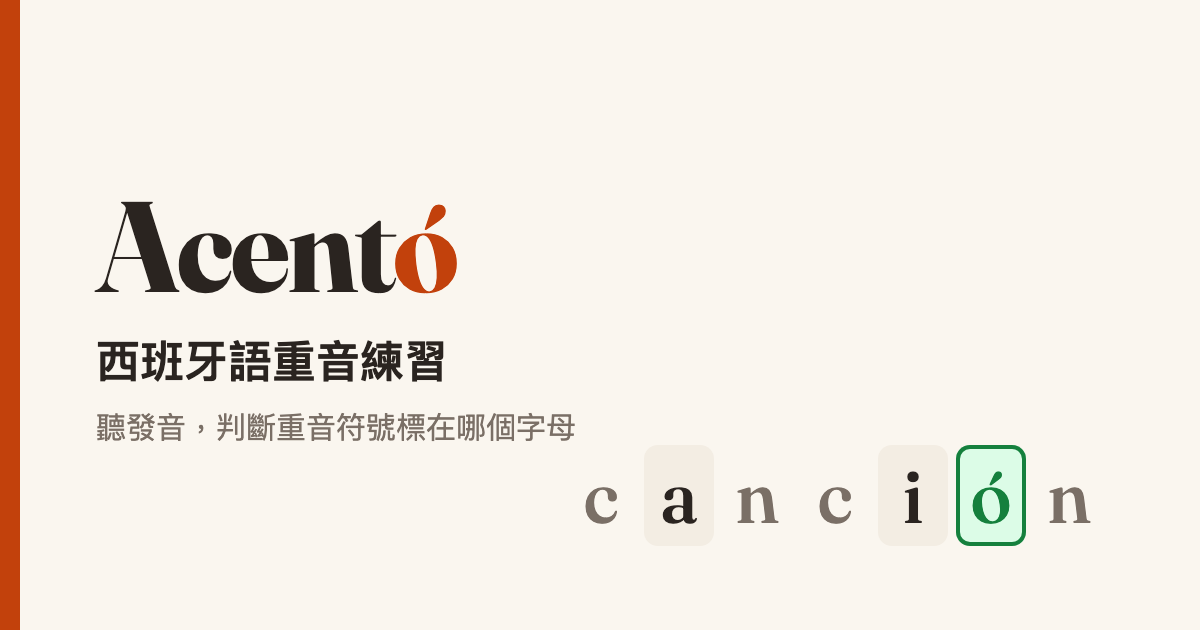
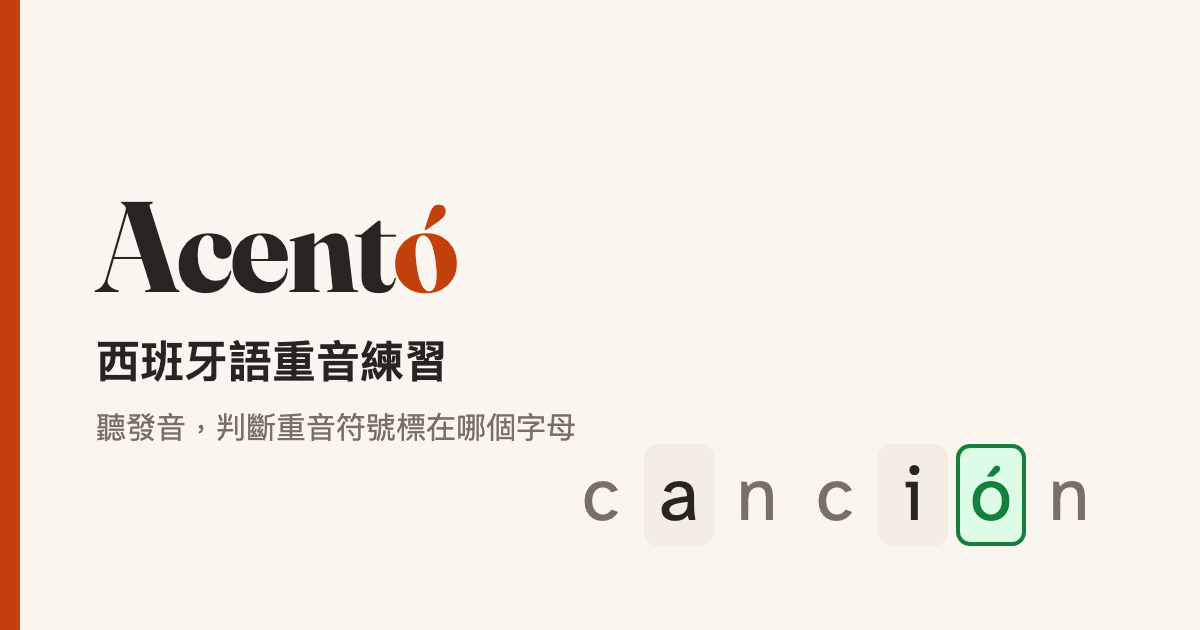
Use Atkinson Hyperlegible for Spanish words
Fraunces made accents small and letters heavy at display sizes. Keep it
only for the brand; quiz letters, answers, compare lists and the OG image
now use Atkinson Hyperlegible for clearer í vs i and accent marks.

diff --git a/css/style.css b/css/style.css
@@ -15,6 +15,7 @@
   --radius: 14px;
   --font: system-ui, -apple-system, "PingFang TC", "Noto Sans TC", "Microsoft JhengHei", sans-serif;
   --display: "Fraunces", Georgia, serif;
+  --word: "Atkinson Hyperlegible", system-ui, sans-serif;
   color-scheme: light;
 }
 
@@ -217,9 +218,9 @@ select {
   justify-content: center;
   flex-wrap: wrap;
   gap: 4px;
-  font-family: var(--display);
+  font-family: var(--word);
   font-size: clamp(2rem, 9vw, 3.2rem);
-  font-weight: 500;
+  font-weight: 400;
   margin-bottom: 16px;
 }
 .letter {
@@ -263,7 +264,7 @@ button.letter:disabled { cursor: default; }
 .verdict.ok { color: var(--ok); }
 .verdict.bad { color: var(--bad); }
 .answer-line { display: flex; align-items: baseline; flex-wrap: wrap; gap: 4px 16px; margin: 6px 0 10px; }
-.answer-word { font-family: var(--display); font-size: 1.8rem; }
+.answer-word { font-family: var(--word); font-size: 1.8rem; }
 .syllables { color: var(--muted); font-size: 1.05rem; }
 .syllables b { color: var(--accent); }
 .yours { font-size: 0.9rem; color: var(--muted); }
@@ -302,7 +303,7 @@ button.letter:disabled { cursor: default; }
 .sound-item::before { content: "▶"; font-size: 0.7rem; color: var(--muted); }
 .sound-item.mark { border-color: var(--ok); }
 .sound-item.playing { background: var(--accent-soft); border-color: var(--accent); }
-.sound-word { font-family: var(--display); font-size: 1.3rem; }
+.sound-word { font-family: var(--word); font-size: 1.3rem; }
 .sound-sub { font-size: 0.85rem; color: var(--muted); }
 .sound-item.mark .sound-sub { color: var(--ok); }
 .compact .sound-items { flex-direction: row; flex-wrap: wrap; }
@@ -322,7 +323,7 @@ button.letter:disabled { cursor: default; }
 .section-title { margin: 24px 0 12px; }
 .group-grid { display: grid; grid-template-columns: repeat(auto-fill, minmax(300px, 1fr)); gap: 0 16px; }
 .group-card .sound-list { margin-top: 0; }
-.group-card .sound-title { font-family: var(--display); font-size: 1.2rem; }
+.group-card .sound-title { font-family: var(--word); font-size: 1.2rem; }
 
 /* Stats */
 .stat-table, .rule-table { width: 100%; border-collapse: collapse; font-size: 0.92rem; }
@@ -336,7 +337,7 @@ button.letter:disabled { cursor: default; }
 .stat-table td.num { text-align: right; white-space: nowrap; font-variant-numeric: tabular-nums; }
 .bar { height: 8px; border-radius: 4px; background: var(--surface-2); overflow: hidden; min-width: 60px; margin-top: 7px; }
 .bar > span { display: block; height: 100%; background: var(--accent); }
-.score-big { font-family: var(--display); font-size: 2.6rem; margin: 0; }
+.score-big { font-family: var(--word); font-size: 2.6rem; margin: 0; }
 .wrong-list { padding-left: 1.2em; }
 .wrong-list li { margin: 4px 0; }
 

diff --git a/index.html b/index.html
@@ -16,7 +16,7 @@
   <meta name="twitter:card" content="summary_large_image">
   <link rel="preconnect" href="https://fonts.googleapis.com">
   <link rel="preconnect" href="https://fonts.gstatic.com" crossorigin>
-  <link href="https://fonts.googleapis.com/css2?family=Fraunces:opsz,wght@9..144,500;9..144,700&display=swap" rel="stylesheet">
+  <link href="https://fonts.googleapis.com/css2?family=Atkinson+Hyperlegible:wght@400;700&family=Fraunces:opsz,wght@9..144,700&display=swap" rel="stylesheet">
   <link rel="stylesheet" href="css/style.css">
 </head>
 <body>
